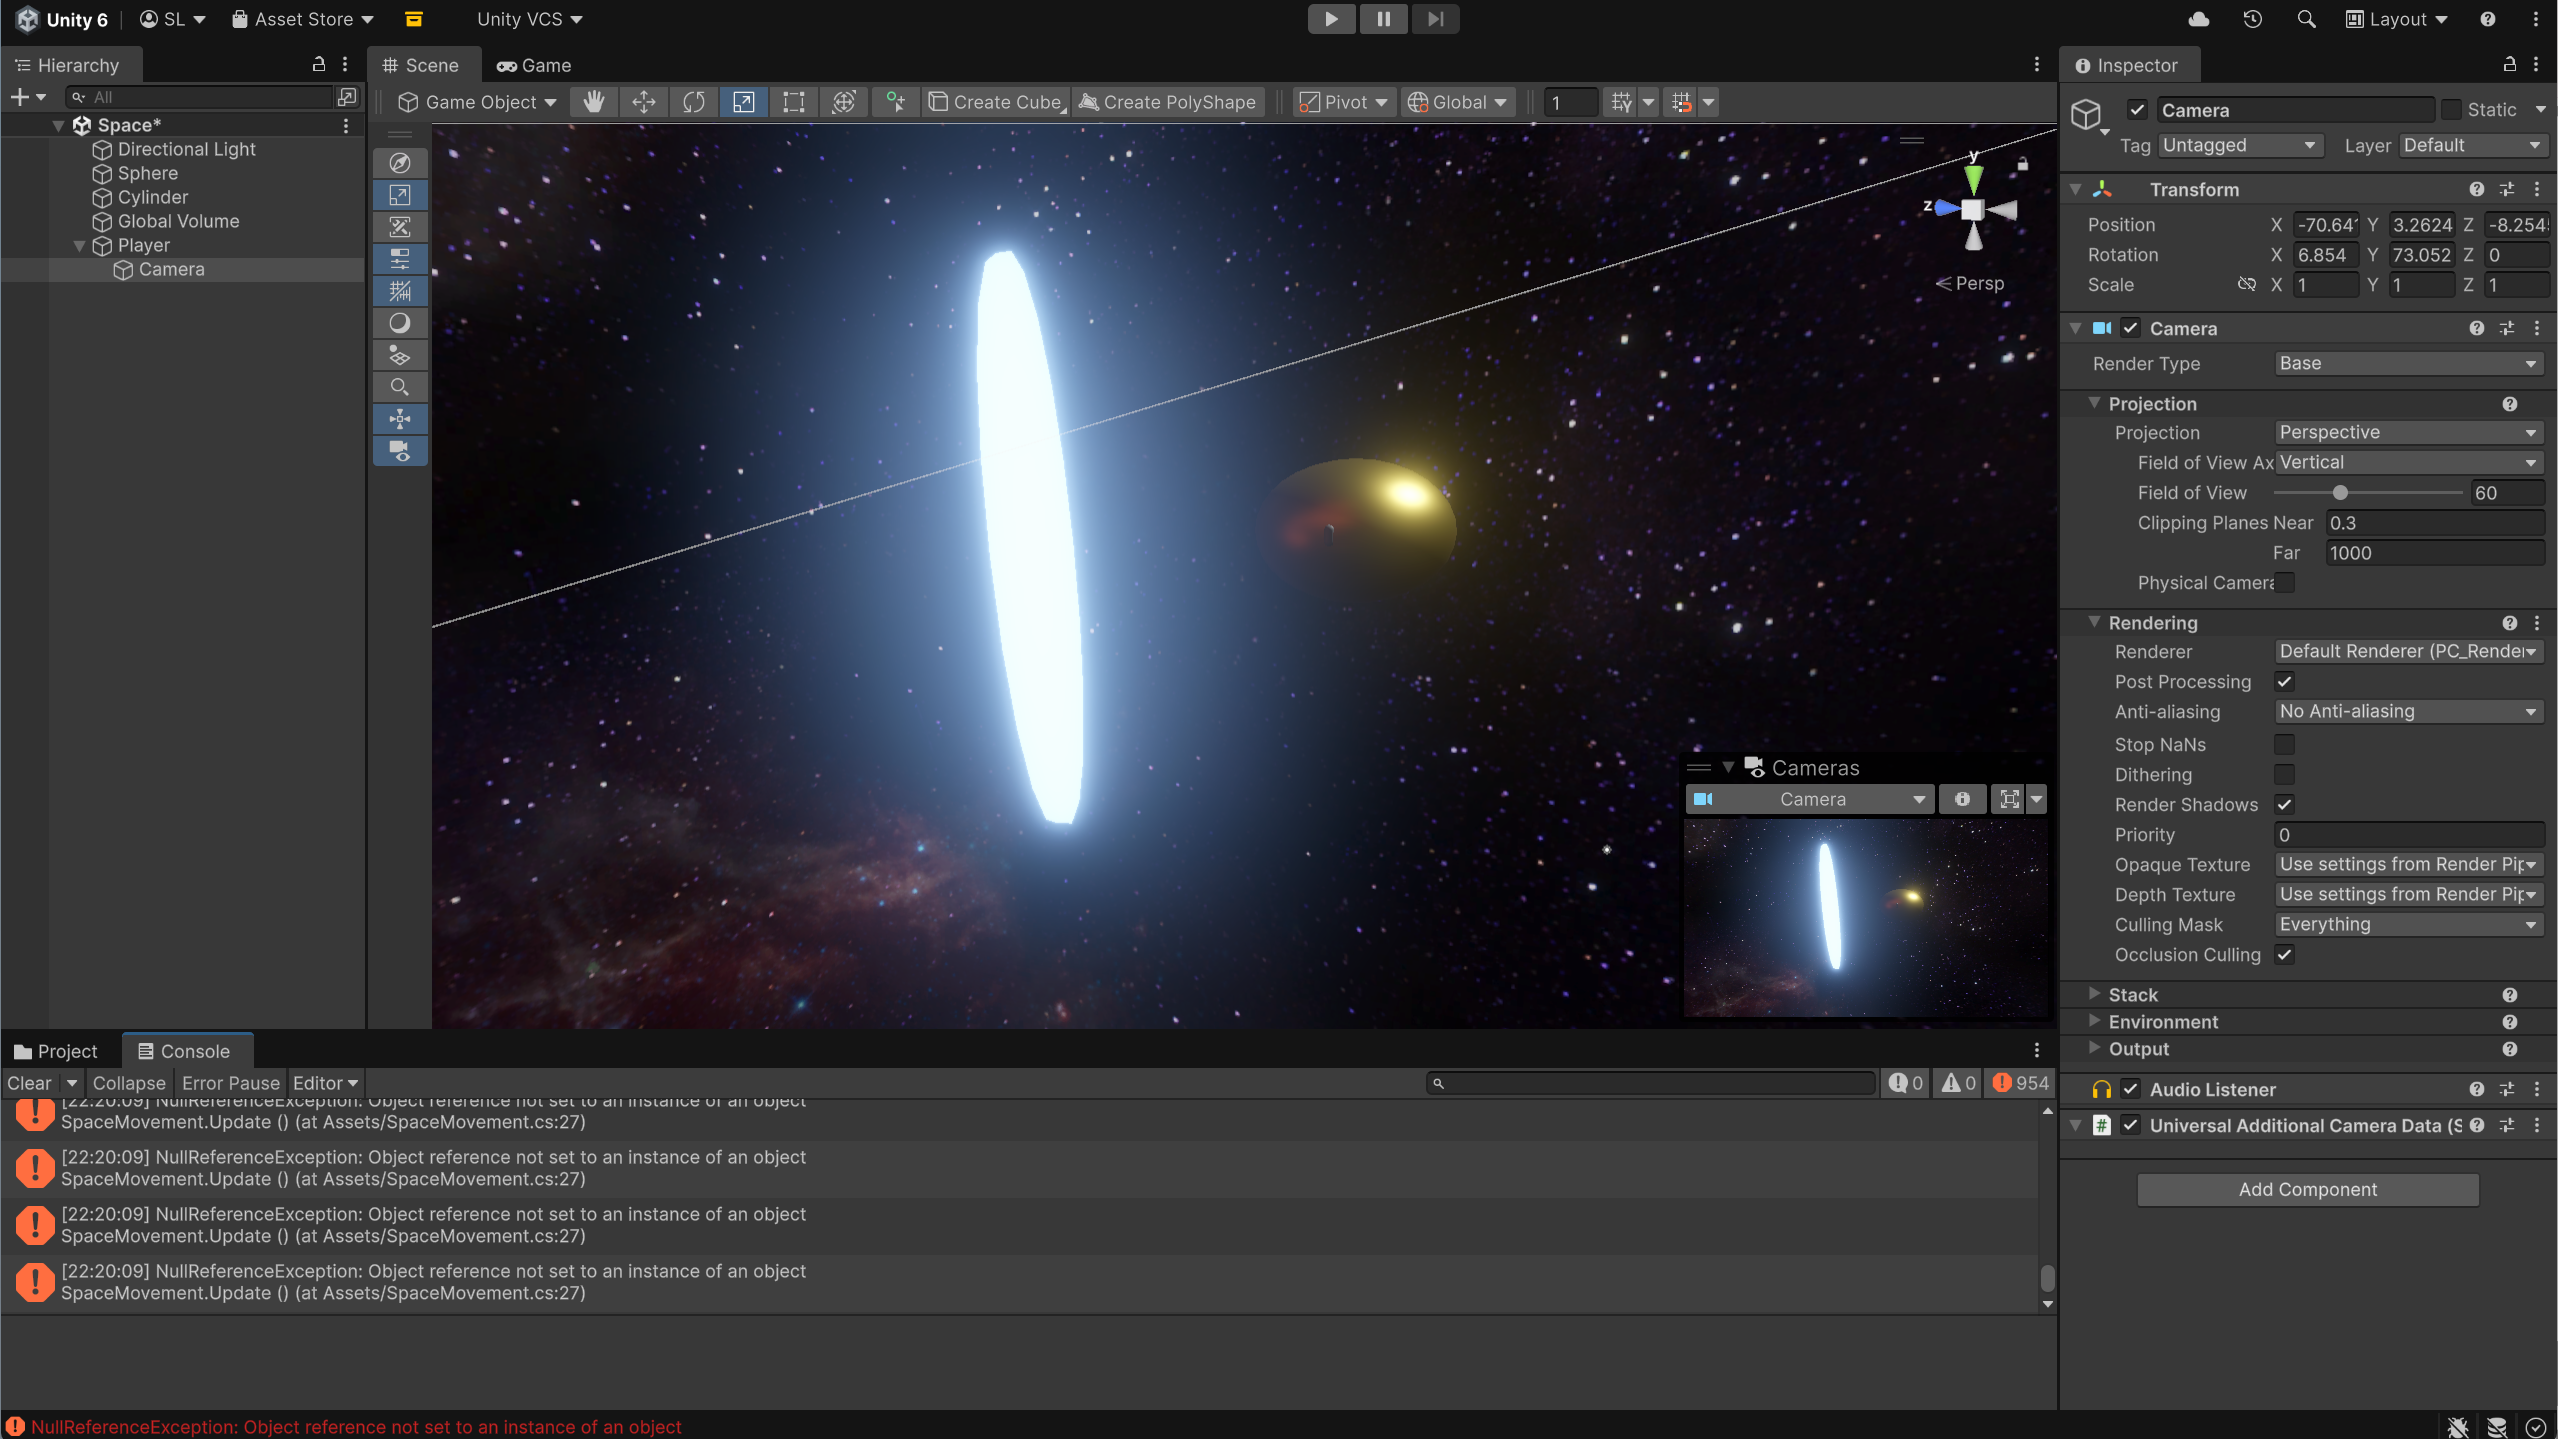
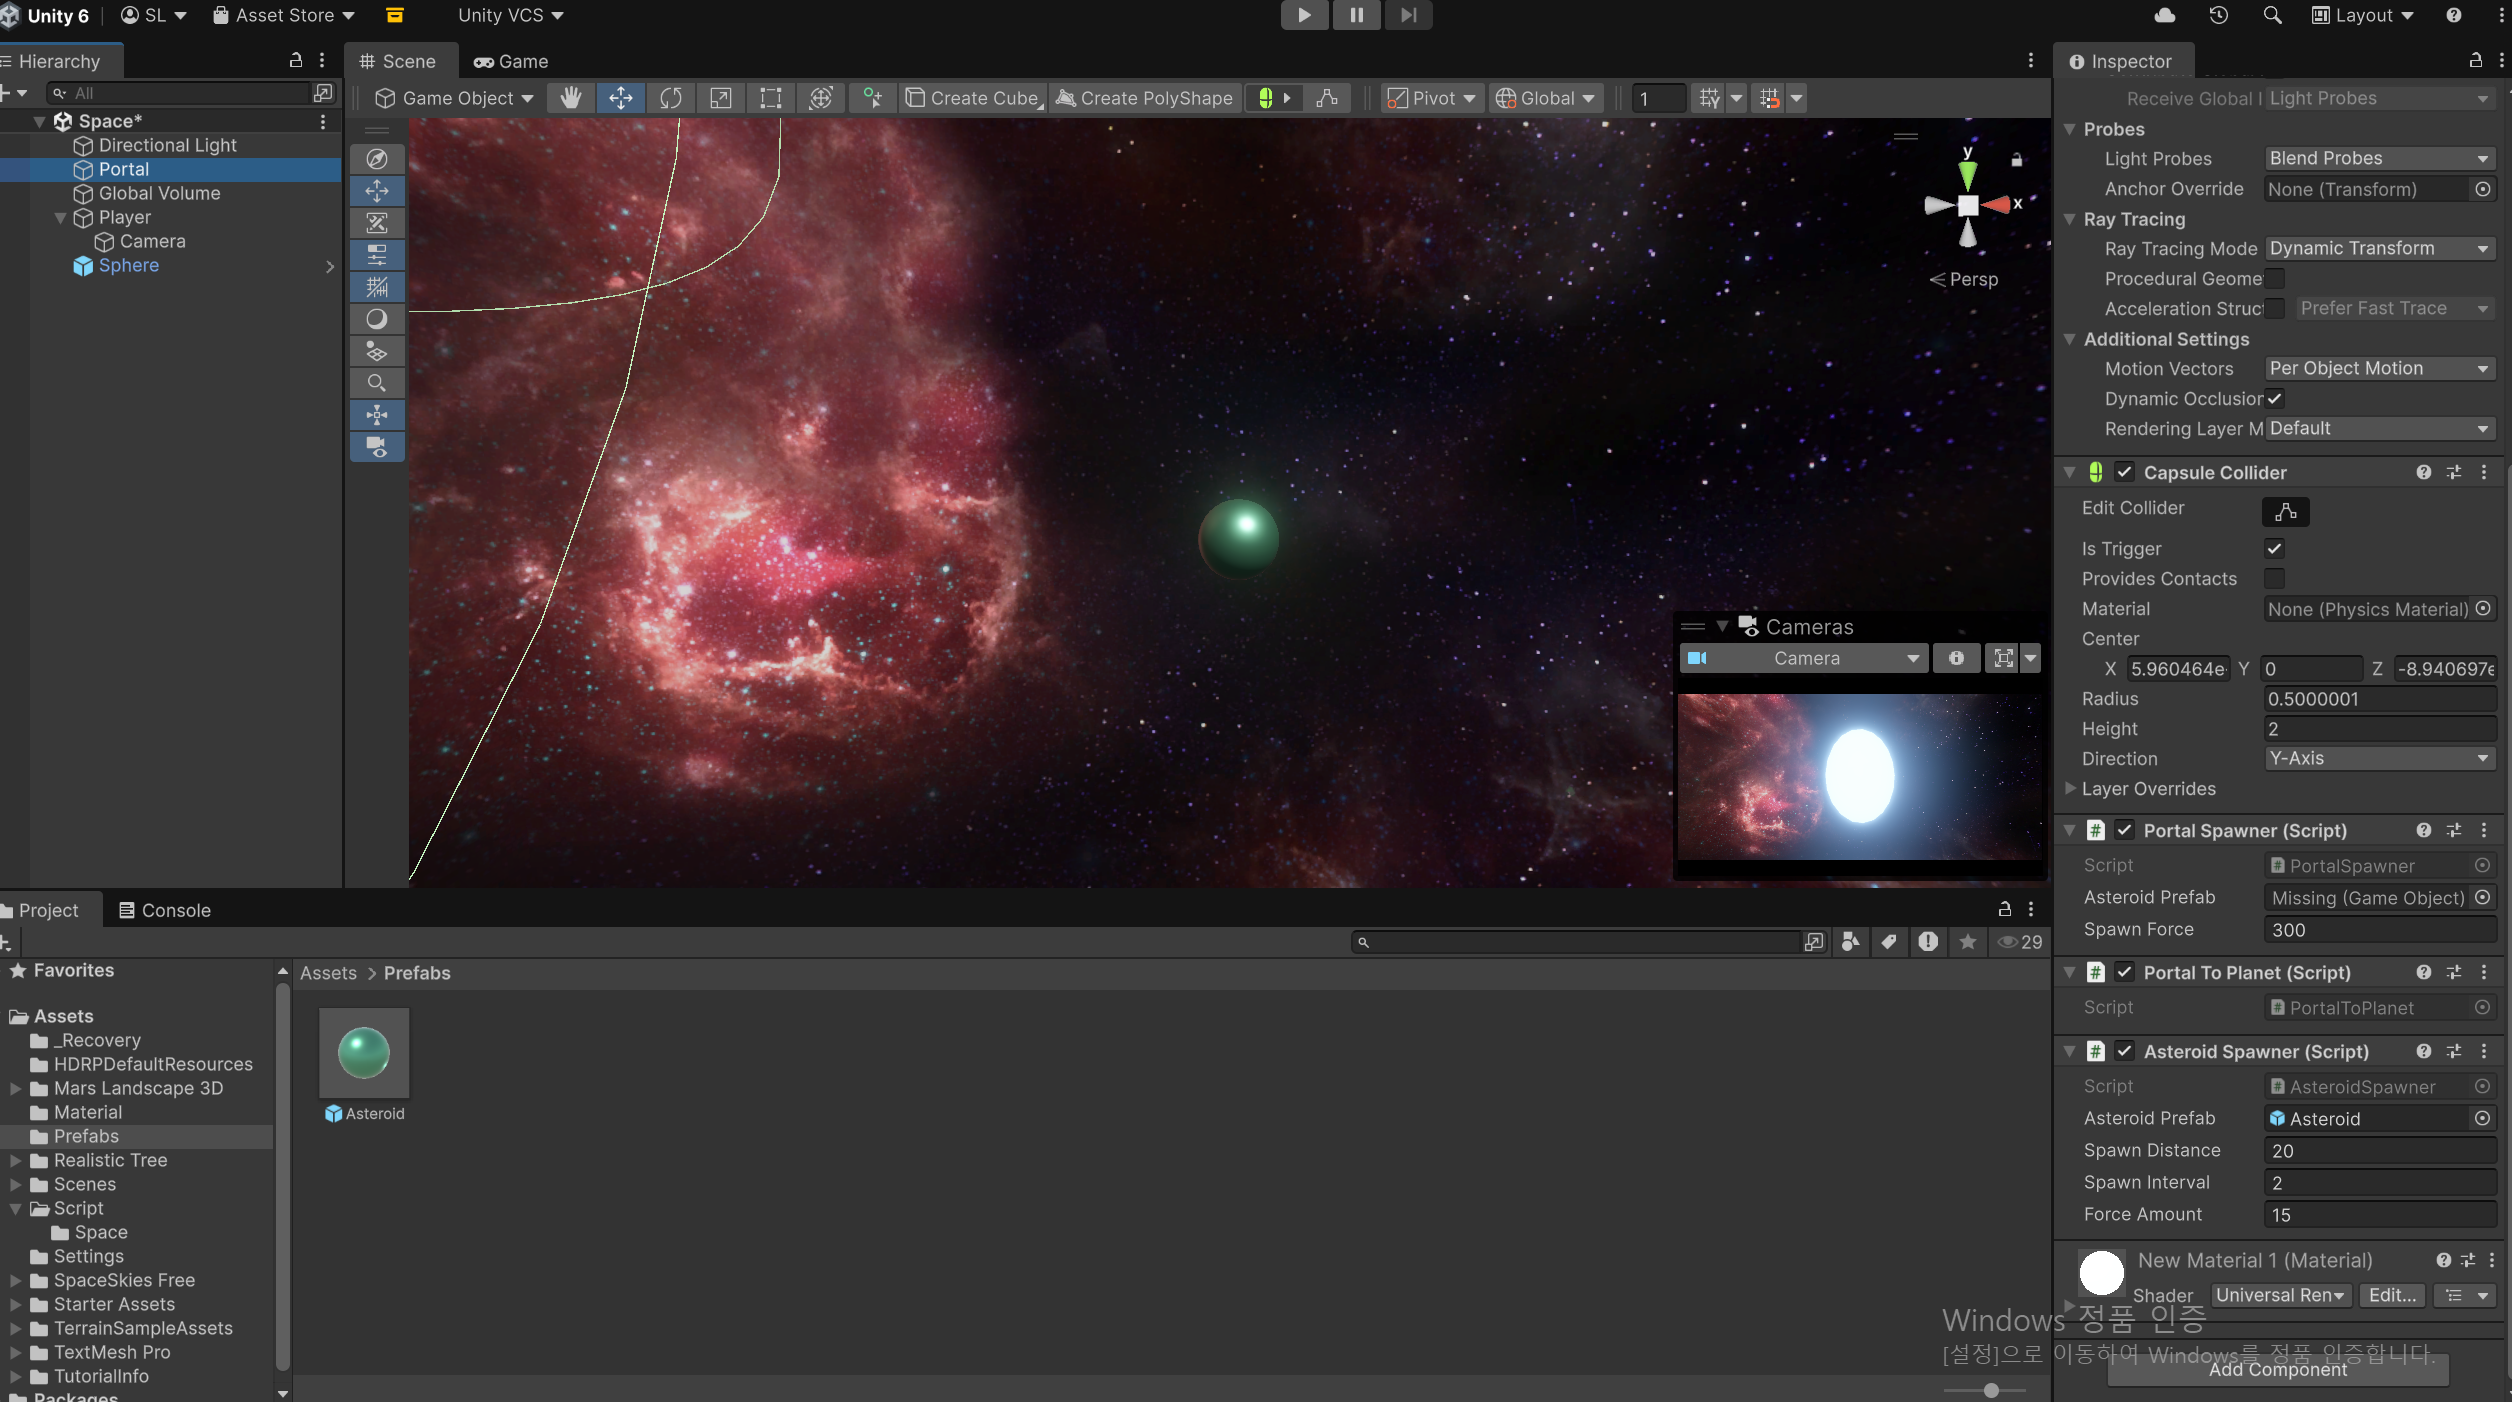
doc

diff --git a/Dream-Space/index.html b/Dream-Space/index.html
@@ -143,6 +143,55 @@ max-width:800px;
 margin-top:20px;
 }
 
+/* lightbox modal */
+
+.lightbox-overlay{
+position:fixed;
+top:0;
+left:0;
+width:100%;
+height:100%;
+background:rgba(0,0,0,0.85);
+display:flex;
+justify-content:center;
+align-items:center;
+z-index:9999;
+cursor:zoom-out;
+opacity:0;
+pointer-events:none;
+transition:opacity 0.3s;
+}
+
+.lightbox-overlay.active{
+opacity:1;
+pointer-events:auto;
+}
+
+.lightbox-overlay img{
+max-width:90%;
+max-height:90%;
+border-radius:8px;
+box-shadow:0 0 30px rgba(255,255,255,0.15);
+cursor:default;
+}
+
+.lb-prev,.lb-next{
+position:absolute;
+top:50%;
+transform:translateY(-50%);
+padding:16px;
+color:white;
+font-size:28px;
+background:rgba(0,0,0,0.6);
+cursor:pointer;
+user-select:none;
+border-radius:4px;
+z-index:10000;
+}
+
+.lb-prev{ left:20px; }
+.lb-next{ right:20px; }
+
 </style>
 
 </head>
@@ -213,38 +262,57 @@ Desert: a different planet with ground where people can walk and move.
 
 <div class="slideUnity">
 <img src="assets/unity1.png">
+<p class="unity-description">A circular shape was used to simulate asteroids flying toward the player. It was turned into a prefab and scripted to spawn multiple objects.
 </div>
 
 <div class="slideUnity">
 <img src="assets/unity2.png">
+<p class="unity-description">A portal was created with emission applied to give it a glowing effect.</p>
 </div>
 
 <div class="slideUnity">
 <img src="assets/unity3.png">
+<p class="unity-description">Asteroids were placed in front of the portal to test the flying motion.</p>
 </div>
 
 <div class="slideUnity">
 <img src="assets/unity4.png">
+<p class="unity-description">A rotating swirl pattern was added near the portal to create a dynamic effect.</p>
 </div>
 
 <div class="slideUnity">
 <img src="assets/unity5.png">
+<p class="unity-description">Layout of the portal and swirl elements.</p>
 </div>
 
 <div class="slideUnity">
 <img src="assets/unity6.png">
+<p class="unity-description">The asteroid visuals were replaced with a spaceship asset for a better result.</p>
 </div>
 
 <div class="slideUnity">
 <img src="assets/unity7.png">
+<p class="unity-description">Error...</p>
 </div>
 
 <div class="slideUnity">
 <img src="assets/unity8.png">
+<p class="unity-description">Particles were added around the portal to enhance the visual effect.</p>
 </div>
 
 <div class="slideUnity">
 <img src="assets/unity9.png">
+<p class="unity-description">A desert environment with sand and sky was set up to represent a new planet after passing through the portal.</p>
+</div>
+
+<div class="slideUnity">
+<img src="assets/unity10.png">
+<p class="unity-description">The sky was replaced with a space background to better match the environment.</p>
+</div>
+
+<div class="slideUnity">
+<img src="assets/unity11.png">
+<p class="unity-description">A human asset was downloaded and used to test a character emerging from the portal.</p>
 </div>
 
 <a class="prev" onclick="plusUnity(-1)">❮</a>
@@ -252,8 +320,10 @@ Desert: a different planet with ground where people can walk and move.
 
 </div>
 
-<p class="unity-description">
-These screenshots document the process of building the dream space environment in Unity.
+<p style="margin-top:15px; color:#aaa; font-size:14px;">
+<strong>Reference</strong><br>
+Space Scene: <a href="https://assetstore.unity.com/packages/2d/textures-materials/sky/spaceskies-free-80503" target="_blank" style="color:#6cf;">https://assetstore.unity.com/packages/2d/textures-materials/sky/spaceskies-free-80503</a><br>
+SpaceShip: <a href="https://assetstore.unity.com/packages/3d/vehicles/space/federation-corvette-f3-79860" target="_blank" style="color:#6cf;">https://assetstore.unity.com/packages/3d/vehicles/space/federation-corvette-f3-79860</a>
 </p>
 
 </div>
@@ -268,28 +338,33 @@ These screenshots document the process of building the dream space environment i
 
 <div class="slideScript">
 <img src="assets/script1.png">
+<p class="script-description">PortalToPlanet controls the transition between scenes when the player enters the portal. When the player touches the portal, the script detects the collision and loads the next scene (PlanetWorld).</p>
 </div>
 
 <div class="slideScript">
 <img src="assets/script2.png">
+<p class="script-description">AsteroidSpawner controls the spawning of asteroids around the scene. Objects are generated at set intervals and given random positions and forces to create a natural flying motion.</p>
 </div>
 
 <div class="slideScript">
 <img src="assets/script3.png">
+<p class="script-description">PortalRotate applies continuous rotation to the portal object to give it a dynamic and active appearance.</p>
 </div>
 
 <div class="slideScript">
 <img src="assets/script4.png">
+<p class="script-description">PortalSpin adds a spinning motion to elements around the portal, enhancing the swirling visual effect.</p>
+</div>
+
+<div class="slideScript">
+<img src="assets/script5.png">
+<p class="script-description">Gravity behavior is controlled at the scene level, switching between zero-gravity movement in space and grounded navigation in the planet environment.</p>
 </div>
 
 <a class="prev" onclick="plusScript(-1)">❮</a>
 <a class="next" onclick="plusScript(1)">❯</a>
 
 </div>
-
-<p class="script-description">
-These scripts control movement, portal interaction, and object behavior in the space environment.
-</p>
 
 </div>
 
@@ -401,6 +476,63 @@ slides[scriptIndex-1].style.display="block"
 
 }
 
+</script>
+
+<!-- lightbox modal -->
+<div class="lightbox-overlay" id="lightbox">
+<a class="lb-prev" id="lb-prev">❮</a>
+<img id="lightbox-img" src="" alt="">
+<a class="lb-next" id="lb-next">❯</a>
+</div>
+
+<script>
+var lbImages=[]
+var lbIndex=0
+var allImages=document.querySelectorAll('.image-grid img, .slideshow-container img')
+
+allImages.forEach(function(img,i){
+img.style.cursor='zoom-in'
+img.addEventListener('click',function(){
+lbImages=Array.from(allImages)
+lbIndex=lbImages.indexOf(this)
+var overlay=document.getElementById('lightbox')
+var lbImg=document.getElementById('lightbox-img')
+lbImg.src=this.src
+overlay.classList.add('active')
+})
+})
+
+document.getElementById('lb-prev').addEventListener('click',function(e){
+e.stopPropagation()
+lbIndex=(lbIndex-1+lbImages.length)%lbImages.length
+document.getElementById('lightbox-img').src=lbImages[lbIndex].src
+})
+
+document.getElementById('lb-next').addEventListener('click',function(e){
+e.stopPropagation()
+lbIndex=(lbIndex+1)%lbImages.length
+document.getElementById('lightbox-img').src=lbImages[lbIndex].src
+})
+
+document.getElementById('lightbox').addEventListener('click',function(e){
+if(e.target===this){
+this.classList.remove('active')
+}
+})
+
+document.addEventListener('keydown',function(e){
+var overlay=document.getElementById('lightbox')
+if(!overlay.classList.contains('active')) return
+if(e.key==='ArrowLeft'){
+lbIndex=(lbIndex-1+lbImages.length)%lbImages.length
+document.getElementById('lightbox-img').src=lbImages[lbIndex].src
+}else if(e.key==='ArrowRight'){
+lbIndex=(lbIndex+1)%lbImages.length
+document.getElementById('lightbox-img').src=lbImages[lbIndex].src
+}else if(e.key==='Escape'){
+overlay.classList.remove('active')
+}
+})
 </script>
 
 
